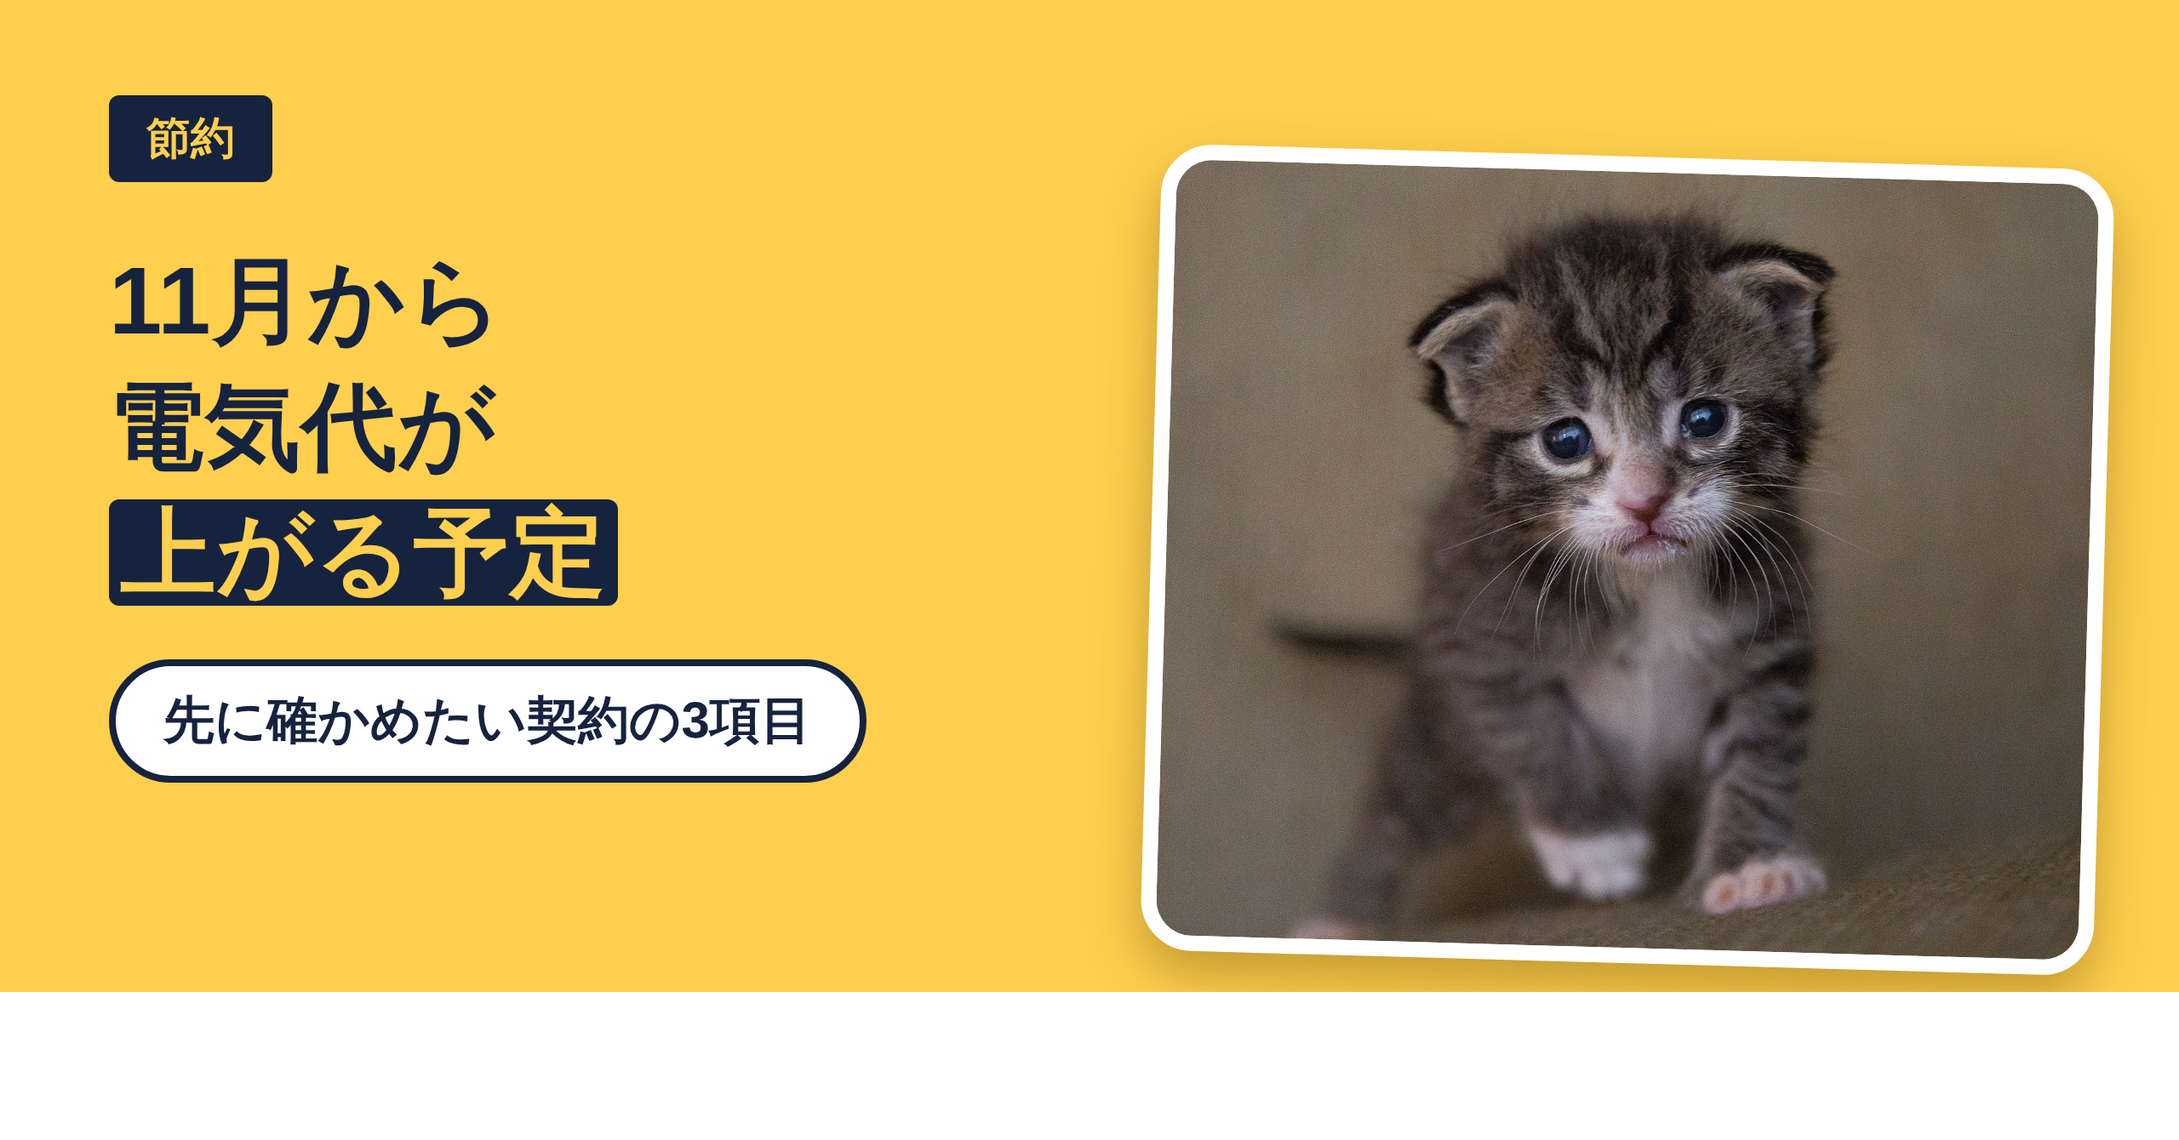
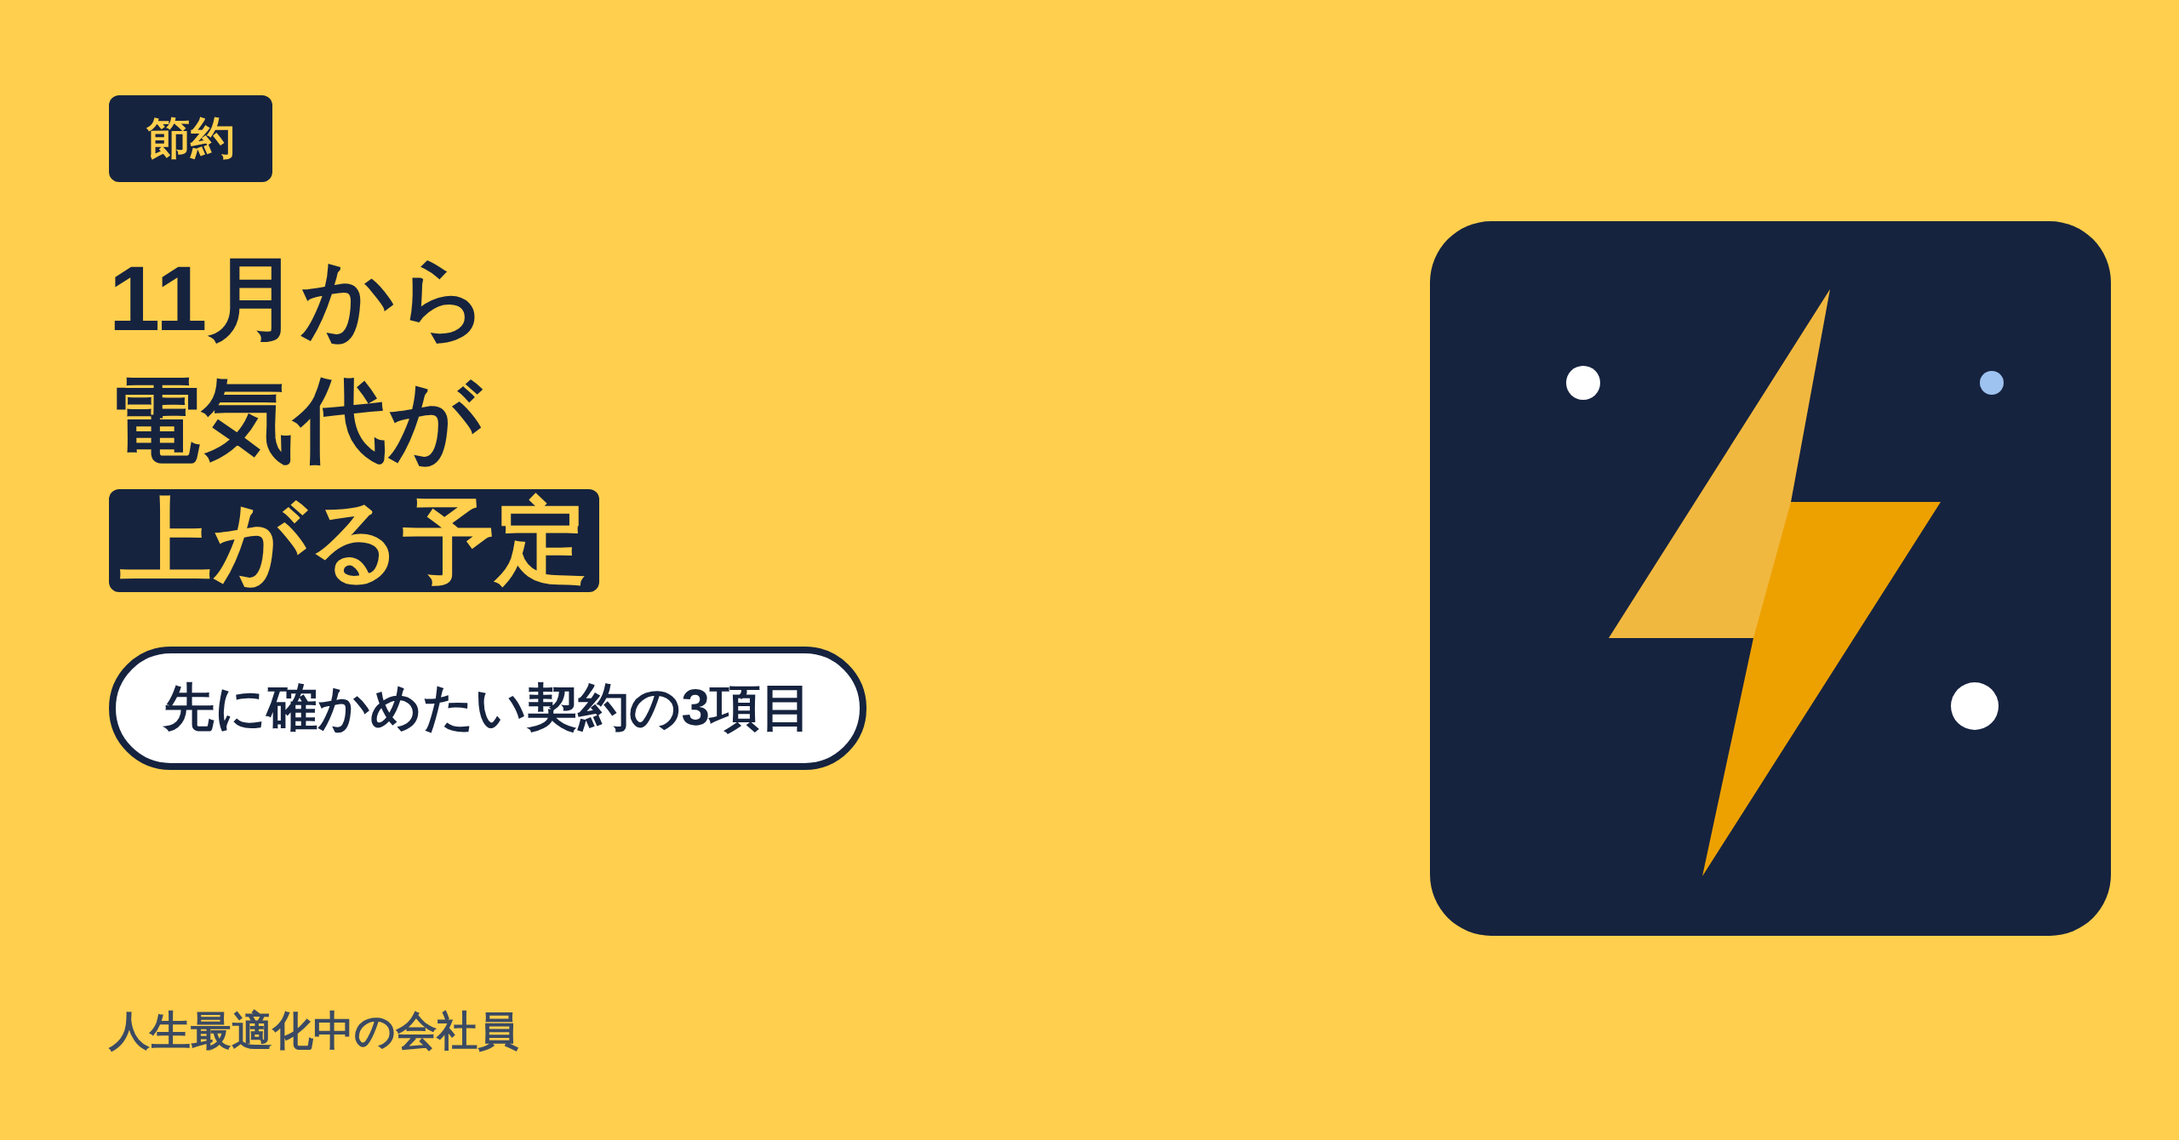
Replace cover cat with pictograms (auto-pick); fix CLI figure height crop; add reader-side あるある policy and lines for 2026-10-19_001
Claude-Session: https://claude.ai/code/session_019jxzMkHZEL8EPC28xkVZW1

diff --git a/src/note_editorial/figures.py b/src/note_editorial/figures.py
@@ -13,8 +13,8 @@ figures.json の例:
   {"type": "timeline", "name": "fig2_xxx", "title": "…", "items": [{"date": "10月", "label": "…", "desc": "…", "hl": false}]},
   {"type": "checklist", "name": "fig3_xxx", "title": "…", "columns": ["…"], "widths": [300, 500, 352], "rows": [["…"]]}
 ]
-cover の icon: cat(白いマンチカン。普通)|cat_happy(笑顔)|cat_worry(困り顔)|cat_think(考える)|house|yen|chart|doc|shield|robot|briefcase|cart|bolt(電気)|aircon(エアコン)|phone(スマホ・通信)|bulb(照明)|flame(ガス)|calendar(年払い・更新日)|receipt(明細・家計)(または illust_html で自作)。
-cover の photo: 写真のファイル(例: assets/mascot/munchkin_cc0_1.jpg。ライセンスが明確なものだけ。assets/mascot/README.md)。猫の絵(icon: cat…)のかわりに、実写を右に置く。
+cover の icon(ピクトグラム。書かなければタイトルの言葉から自動で選ぶ。猫は2026-10-18にやめた): house|yen|chart|doc|shield|robot|briefcase|cart|bolt(電気)|aircon(エアコン)|phone(スマホ・通信)|bulb(照明)|flame(ガス)|calendar(年払い・更新日)|receipt(明細・家計)(または illust_html で自作)。
+cover の photo: 2026-10-18から使わない(書いても無視される)。
 cover の title_html: <em>…</em>=紺の地に黄の文字、<b>…</b>=赤い文字。sub=タイトルの下の白い帯(2段型タイトルのサブ)。
 cover の bg(背景の黄色系): sun|lemon|amber|honey|cream、または「#ffd43b」形式の色。書かなければ、実行の日付で毎日変わる(同じ色が続かない)。
 """
@@ -314,6 +314,20 @@ _MEASURE = ('<script>window.addEventListener("load",function(){var d=document.cr
             'd.textContent="HEIGHT="+document.getElementById("t").offsetHeight;document.body.appendChild(d);});</script>')
 
 
+def _window_offset(base, work):
+    """Chrome の画面は、--window-size より低く描かれることがある(窓の枠の分)。足りない高さを測る(0なら補正なし)。"""
+    import subprocess
+    probe = work / "_probe.html"
+    probe.write_text('<html><body><script>document.body.textContent="IH="+window.innerHeight</script></body></html>', encoding="utf-8")
+    try:
+        dom = subprocess.run(base + ["--virtual-time-budget=2000", "--window-size=1280,400", "--dump-dom", probe.resolve().as_uri()],
+                             capture_output=True, timeout=60, check=False).stdout.decode("utf-8", "replace")
+    except (OSError, subprocess.TimeoutExpired):
+        return 0
+    m = re.search(r"IH=(\d+)", dom)
+    return max(0, 400 - int(m.group(1))) if m else 0
+
+
 def render_all_cli(specs: list[dict], out_dir: Path) -> list[Path]:
     """Playwright が無い環境(クラウドなど)用。画像づくりと同じ、Chrome/Edge の命令だけで描く(追加の導入が要らない)。
     高さは、先にページを読み込んで測る(--dump-dom)。"""
@@ -325,6 +339,7 @@ def render_all_cli(specs: list[dict], out_dir: Path) -> list[Path]:
     work.mkdir(exist_ok=True)
     base = [browser, "--headless", "--no-sandbox", "--disable-gpu", "--hide-scrollbars"]
     made = []
+    offset = _window_offset(base, work)
     try:
         for s in specs:
             out = out_dir / f"{s['name']}.png"
@@ -341,14 +356,23 @@ def render_all_cli(specs: list[dict], out_dir: Path) -> list[Path]:
             src = work / f"{s['name']}.html"
             src.write_text(_page_html(s), encoding="utf-8")
             out.unlink(missing_ok=True)
+            height = int(m.group(1))
             cmd = base + ["--force-device-scale-factor=2", f"--screenshot={out.resolve()}",
-                          f"--window-size=1280,{int(m.group(1))}", src.resolve().as_uri()]
+                          f"--window-size=1280,{height + offset}", src.resolve().as_uri()]
             try:
                 subprocess.run(cmd, capture_output=True, timeout=90, check=False)
             except (OSError, subprocess.TimeoutExpired) as e:
                 raise FigureError(f"図の作成に失敗しました({s['name']}): {e}") from e
             if not out.exists() or out.stat().st_size == 0:
                 raise FigureError(f"図ができませんでした: {s['name']}")
+            if offset:  # 窓の高さに足した分(下の余白)を切り落とす。Pillow が無ければ、そのまま(下に白い帯が出る)
+                try:
+                    from PIL import Image
+                    with Image.open(out) as im:
+                        im = im.crop((0, 0, im.width, height * 2))
+                        im.save(out)
+                except ImportError:
+                    pass
             made.append(out)
     finally:
         for f in work.glob("*"):
@@ -418,12 +442,33 @@ def _vary_cover_bg(specs, run_id):
         return
     import datetime
     day = datetime.date(int(m[1]), int(m[2]), int(m[3])).toordinal()
-    photos = sorted(Path("assets/mascot").glob("*.jpg"))
     for s in specs:
         if s.get("type") == "cover" and not s.get("bg"):
             s["bg"] = BG_ORDER[day % len(BG_ORDER)]
-        if s.get("type") == "cover" and s.get("photo") == "auto" and photos:  # 猫の写真を、日付で毎日かえる(同じ写真が続かない)
-            s["photo"] = str(photos[day % len(photos)])
+        if s.get("type") == "cover":  # 2026-10-18 決定: 見出し画像の猫(写真・絵)はやめ、ピクトグラムにする
+            s.pop("photo", None)
+            if not s.get("illust_html") and (not s.get("icon") or str(s.get("icon")).startswith("cat")):
+                s["icon"] = pick_icon(s)
+
+
+ICON_KEYWORDS = [  # タイトル・タグの言葉から、合うピクトグラムを選ぶ(上から順。icon を書けばそちらが優先)
+    ("bolt", ("電気", "電力", "停電")), ("flame", ("ガス", "暖房", "給湯")), ("aircon", ("エアコン", "冷房")),
+    ("phone", ("スマホ", "通信", "携帯", "サブスク", "アプリ")), ("bulb", ("照明", "LED", "節電")),
+    ("shield", ("保険", "医療", "防災")), ("chart", ("投資", "NISA", "iDeCo", "株", "積立", "資産")),
+    ("robot", ("AI", "ChatGPT", "自動")), ("briefcase", ("仕事", "転職", "給料", "手取り", "年収", "会社")),
+    ("house", ("賃貸", "家賃", "住", "引っ越")), ("cart", ("買い物", "コンビニ", "スーパー", "食費")),
+    ("calendar", ("年払い", "更新", "解約", "期限")), ("receipt", ("明細", "請求", "家計簿")),
+    ("doc", ("契約", "書類", "手続き")),
+]
+
+
+def pick_icon(s):
+    text = re.sub(r"<[^>]+>", "", " ".join(str(s.get(k, "")) for k in ("title_html", "sub", "tag")))
+    for name, words in ICON_KEYWORDS:
+        if any(w in text for w in words):
+            return name
+    return "yen"
+
 
 
 def make_figures(root: Path, run_id: str) -> list[Path]:

diff --git a/config/weekly_policy.md b/config/weekly_policy.md
@@ -22,6 +22,13 @@
 
 今の課題はPV。開かれるように、**短くて、とっつきやすい**タイトルにする。
 
+### 「あるある」(2026-10-18 追加。PVを上げるため)
+- 本文に、読者が「あるある」と思える一言を入れる(導入と、失敗パターンの1〜2か所。1記事に2〜3か所まで)。とっつきやすく、短く、やわらかい言い方で。
+- **読者の場面として書く**(例:「請求書は毎月届くのに、金額だけ見て終わる。そんな人もいると思います」)。**筆者(僕)の体験にしない**。「多い」「ほとんどの人」などの割合・数字の断定はしない(未確認のため)。「〜という人もいると思います」の形にする。
+- 読者を笑いものにしない・年上の読者を見下さない。
+- 筆者の体験欄(【要入力】)には使わない。そこは持ち主が書いた言葉だけ。
+- 足した「あるある」は、`author_notes.md` に「Claudeの提案(未確認)」として記録する(持ち主が見て、合わなければ消す)。
+
 - **30字以内**(機械で検査される。`check-plan` が超えると不合格にする)。目安は20〜25字。本案を1つ決め、予備案を2つ付ける(予備案も30字以内)。
 - 難しい言葉を使わない。制度名、年号(「令和8年分」など)、略語、専門用語は入れない。中学生が読んでも意味が分かる言葉にする。
 - 「会社員がやりがちな「◯◯」N つ。〜」のような長い型は、もう使わない。読者に話しかける形か、数字(3つ・5分など)や、すぐ使える形にする。
@@ -35,10 +42,9 @@
     - **本当のときだけ使う**。分数は、本文の字数÷500字(日本語を読む速さの目安)。「5分」なら本文2,500字以内、「3分」なら1,500字以内。
     - 付ける企画は、plan.yaml に `read_minutes: 5` のように書く(書かないと、`check-plan` が不合格にする)。その記事は、本文を (分数×500)字以内にして、失敗パターンを3〜4個に絞る。超えると、記事の検品で止まる。
     - タイトル全体は30字以内のまま(【】も数える)。
-  - **見出し画像は、実写のマンチカンの写真を基本にする**(2026-10-12 決定。絵で描いた猫は、リアルでかわいい仕上がりにならなかったため、やめた)。`figures.json` の cover に `"photo": "auto"` と書くと、assets/mascot の写真から日付で毎日ちがう猫が選ばれ、右に写真のカードが入る(特定の写真にしたいときは、ファイル名を書く)。使える写真は assets/mascot/README.md に載っている、**ライセンスが明確なもの(CC0など)だけ**。誰が撮ったか分からない写真は使わない。
-  - (参考・旧)絵の猫(SVG): `icon` は、タイトルに合う表情を選ぶ: `cat`(ふつう)・`cat_happy`(笑顔。うれしい話・「できる」)・`cat_worry`(困り顔。疲れた・怖い・続かない)・`cat_think`(考える。「?」の問い)。猫だけでは話題が伝わらないときだけ、従来のマーク(bolt・aircon・phone・bulb・flame・calendar・receipt・yen)を使ってよい。
+  - **見出し画像に、猫(写真・絵)は使わない**(2026-10-18 決定。猫は伸びが悪かったため、やめた)。かわりに、**話題に合うピクトグラム**を右に置く。`figures.json` の cover の `icon` に、タイトルに合うものを選ぶ: bolt(電気)・flame(ガス)・aircon(エアコン)・phone(スマホ・通信・サブスク)・bulb(照明・節電)・shield(保険)・chart(投資・NISA)・robot(AI)・briefcase(仕事・手取り)・house(住まい・賃貸)・cart(買い物・食費)・calendar(年払い・更新日)・receipt(明細・家計)・doc(契約・書類)・yen(お金一般)。`icon` を書かなければ、タイトルの言葉から自動で選ばれる。毎回、記事ごとに合うものを選ぶ(同じ絵が続かないように)。`"photo"` は書かない(書いても無視される)。合うものが無いときは `illust_html` で自作してよい。
   - **見た目を毎日変える**: 背景の黄色は、`bg` を書かなければ、日付で自動で変わる(同系色の5種類)。同じ表情を続けて使わない。
-  - **タイトルの文字は大きく**(`size` を書かなければ、猫の絵のときは62px)。強調は、`<em>…</em>`(紺の地に黄の文字)と `<b>…</b>`(赤い文字。数字に使う)。2段型のタイトルは、サブを `sub`(白い帯)に入れる。
+  - **タイトルの文字は大きく**(`size` を書かなければ54px)。強調は、`<em>…</em>`(紺の地に黄の文字)と `<b>…</b>`(赤い文字。数字に使う)。2段型のタイトルは、サブを `sub`(白い帯)に入れる。
   - 見出し画像のタイトル(figures.json の title_html)は、意味の切れ目で `<br>` を入れる(1行12字以内が目安。1字だけ次の行に落ちないように)。
 
 

diff --git a/runs/2026-10-19_001/05_revised.md b/runs/2026-10-19_001/05_revised.md
@@ -26,7 +26,7 @@
 
 ## 失敗1:プランと使用量を知らないまま、ニュースだけ見る(項目1)
 
-電気の契約は、引っ越しや入社のときに決めて、そのままという人が多いのではないでしょうか(これは推測です)。そうなると「会社名は何だったかな」「プラン名は?」という状態になりがちです。僕自身の例は、記事の後半に書きました。
+電気の契約は、引っ越しや入社のときに決めて、そのままという人が多いのではないでしょうか(これは推測です)。そうなると「会社名は何だったかな」「プラン名は?」という状態になりがちです。請求書は毎月届くのに、金額だけ見て閉じてしまう。そんな人もいると思います。僕自身の例は、記事の後半に書きました。
 
 ニュースで値上げを知っても、自分のプランと使用量が分からないと、「うちはどうなのか」を考える材料がありません。契約先のマイページか請求書を開けば、会社名、プラン名、先月の使用量(kWh)は、たいてい見つかります。まずはこの3つをメモ帳に写しておくと、あとで見返せます。
 
@@ -43,7 +43,7 @@
 
 ## 失敗3:ほかの会社の値上げ幅と、並べて比べてしまう(項目3)
 
-比較サイトには、会社ごとの値上げ幅を並べた記事があります。ここで気をつけたいのは、モデル家庭の条件が会社ごとに違うことです。比較サイトの記事自身も、単純には比べられないと注意しています(selectra)。
+「安い会社を探すつもりが、気づけば比較記事を何本も読んでいた」。そんな経験がある人もいると思います。比較サイトには、会社ごとの値上げ幅を並べた記事があります。ここで気をつけたいのは、モデル家庭の条件が会社ごとに違うことです。比較サイトの記事自身も、単純には比べられないと注意しています(selectra)。
 
 だから、金額が小さい会社を見て「うちも同じくらいだ」と安心するのも、大きい会社を見て不安になるのも、少し早いと思います。比べる相手は、他社ではなく「自分の先月の使用量」です。
 
@@ -107,3 +107,4 @@ https://note.com/chidou_taxian/n/n4a0cdb68bb2b
 - 問題11: 10月13日の記事のURLを、文の外の単独行に置いた(noteで記事カードになる)。
 - AIっぽさ: 範囲の断り(「なお、請求額は…」)を結論部から注意書きの前に移した。「遅くないはずです」を「間に合います」に変えた。まとめの3つ目を「他社の値上げ幅より、自分の使用量で目安を出すほうが当てになります」にした。
 - 校正: 本文の「確認してください」を「確かめられます」にそろえた(注意書き)。表記は「ご自身」「kWh」「11月1日」を維持した。字数は2,500字以上を保っている(機械検査で確認する)。公開は未了で、投稿はしていない。
+- あるあるの追加(2026-10-18の持ち主の指示。PV対策): 失敗1に「請求書は金額だけ見て閉じてしまう」、失敗3に「比較記事を何本も読んでいた」の2文を足した。どちらも読者の場面で、「そんな人もいると思います」の形。割合・数字・筆者の体験にはしていない。Claudeの提案(未確認)。

diff --git a/config/characters.md b/config/characters.md
@@ -1,6 +1,6 @@
 # キャラクター設定
 
-> **2026-10-12 決定: マスコットは「マンチカン(猫)」。** 見出し画像には、**実写の写真**(ライセンスが明確なもの。`assets/mascot/`)を使う。絵(SVG。`icon: cat…`)も作れるが、リアルでかわいくならなかったため、使わない。名前・性格・口ぐせは、まだ決めていない(決まったら、ここに書く)。
+> **2026-10-12 決定: マスコットは「マンチカン(猫)」。** (2026-10-18 追記: **見出し画像の猫は、伸びが悪いため、やめた**。ピクトグラムにする。config/weekly_policy.md 参照。)見出し画像には、**実写の写真**(ライセンスが明確なもの。`assets/mascot/`)を使う〔この行は旧。いまは使わない〕。絵(SVG。`icon: cat…`)も作れるが、リアルでかわいくならなかったため、使わない。名前・性格・口ぐせは、まだ決めていない(決まったら、ここに書く)。
 > 下の3人(緑さん・谷口課長補佐・チドウちゃん)は、引き続き保留。
 
 # (保留) 3人のキャラクターの下書き

diff --git a/runs/2026-10-19_001/author_notes.md b/runs/2026-10-19_001/author_notes.md
@@ -20,3 +20,8 @@
 - 「僕自身の失敗」は、持ち主が書いた1文だけを、そのまま反映した:「賃貸契約時に紹介されたやつそのまま使ってしまって高くなった。何も考えてなかった」。
 - 「書くとよい失敗の例」の案内文は削除した。
 - 「あとあるある追加して」の依頼:3案を experience_options.md に出した。**Claudeの提案(未確認)**。持ち主が選ぶまで、記事には入れていない。
+
+## あるある追加(2026-10-19・Claudeの提案・未確認)
+- 持ち主の指示(PV対策)で、本文に2文を足した。失敗1:「請求書は毎月届くのに、金額だけ見て閉じてしまう。そんな人もいると思います。」失敗3:「安い会社を探すつもりが、気づけば比較記事を何本も読んでいた。そんな経験がある人もいると思います。」
+- どちらも読者の場面。筆者(僕)の体験ではない。割合・数字は入れていない。合わなければ消す。
+- 「僕自身の失敗」の欄は、持ち主の1文のまま変えていない。
